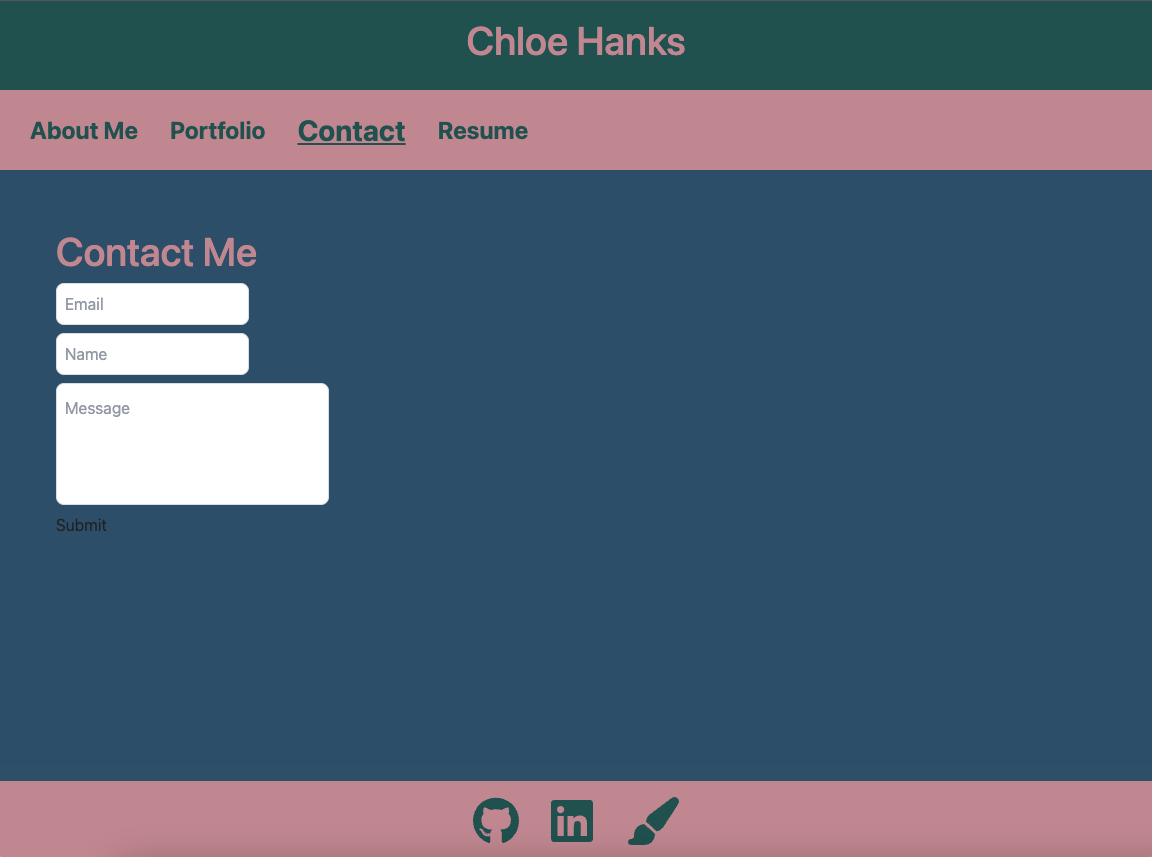
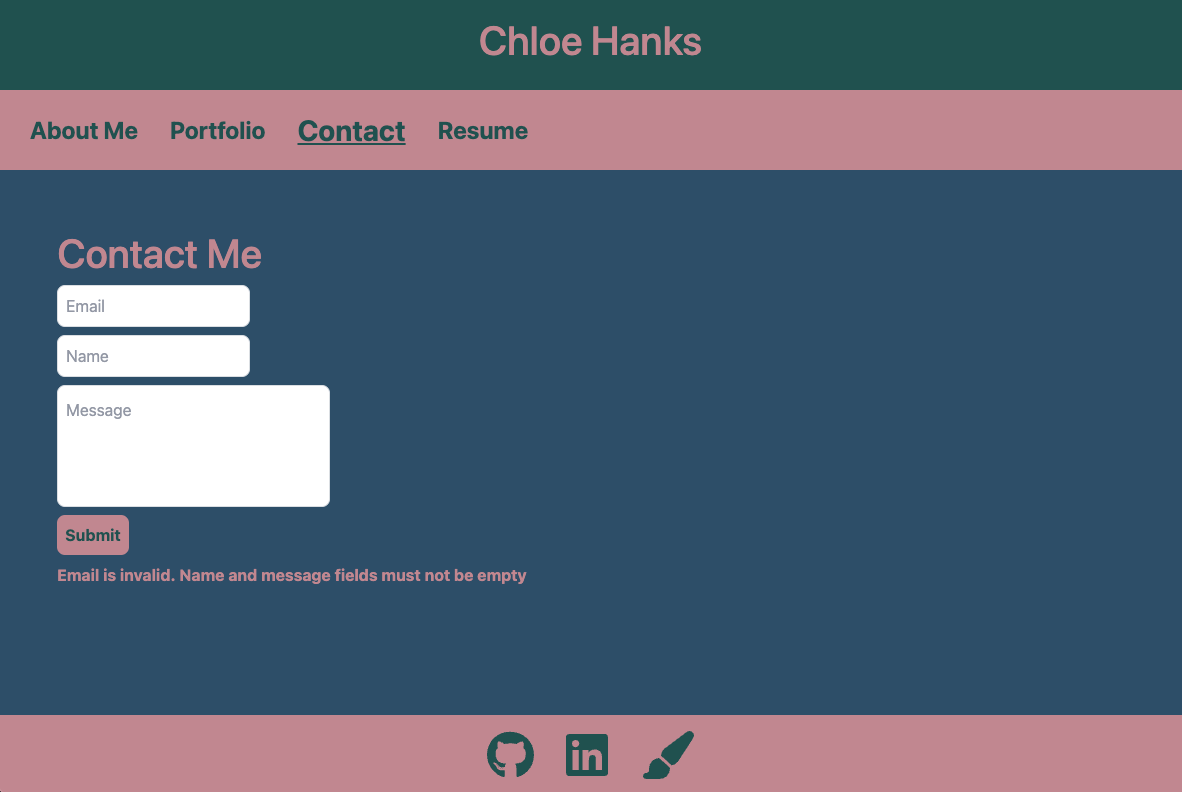
stylized the contact form submit button

diff --git a/src/components/pages/Contact.js b/src/components/pages/Contact.js
@@ -84,13 +84,16 @@ function Form() {
             placeholder="Message" 
           />
         </div>
-        <button type="button" onClick={handleFormSubmit}>
+        <button 
+          className='flex p-2 rounded-lg bg-[#CA929A] text-[#1f5c59] font-bold active:bg-[#d16071]'
+          type="submit" 
+          onClick={handleFormSubmit}>
           Submit
         </button>
       </form>
       {errorMessage && (
         <div>
-          <p className="error-text">{errorMessage}</p>
+          <p className="error-text font-bold mt-2">{errorMessage}</p>
         </div>
       )}
     </div>
